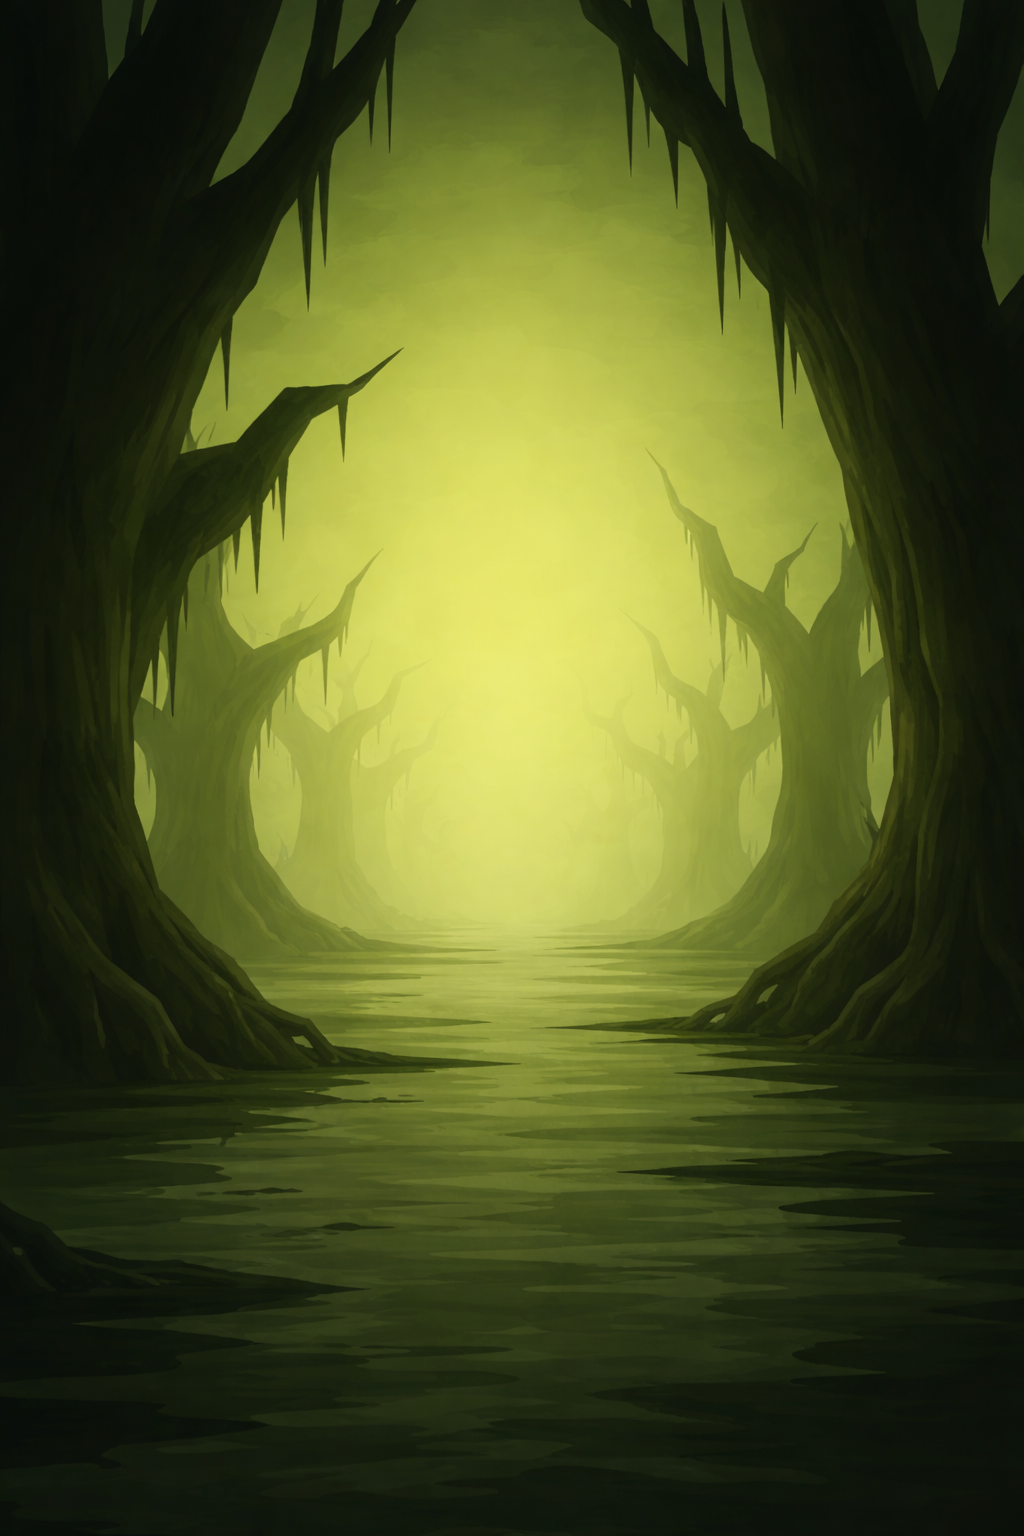
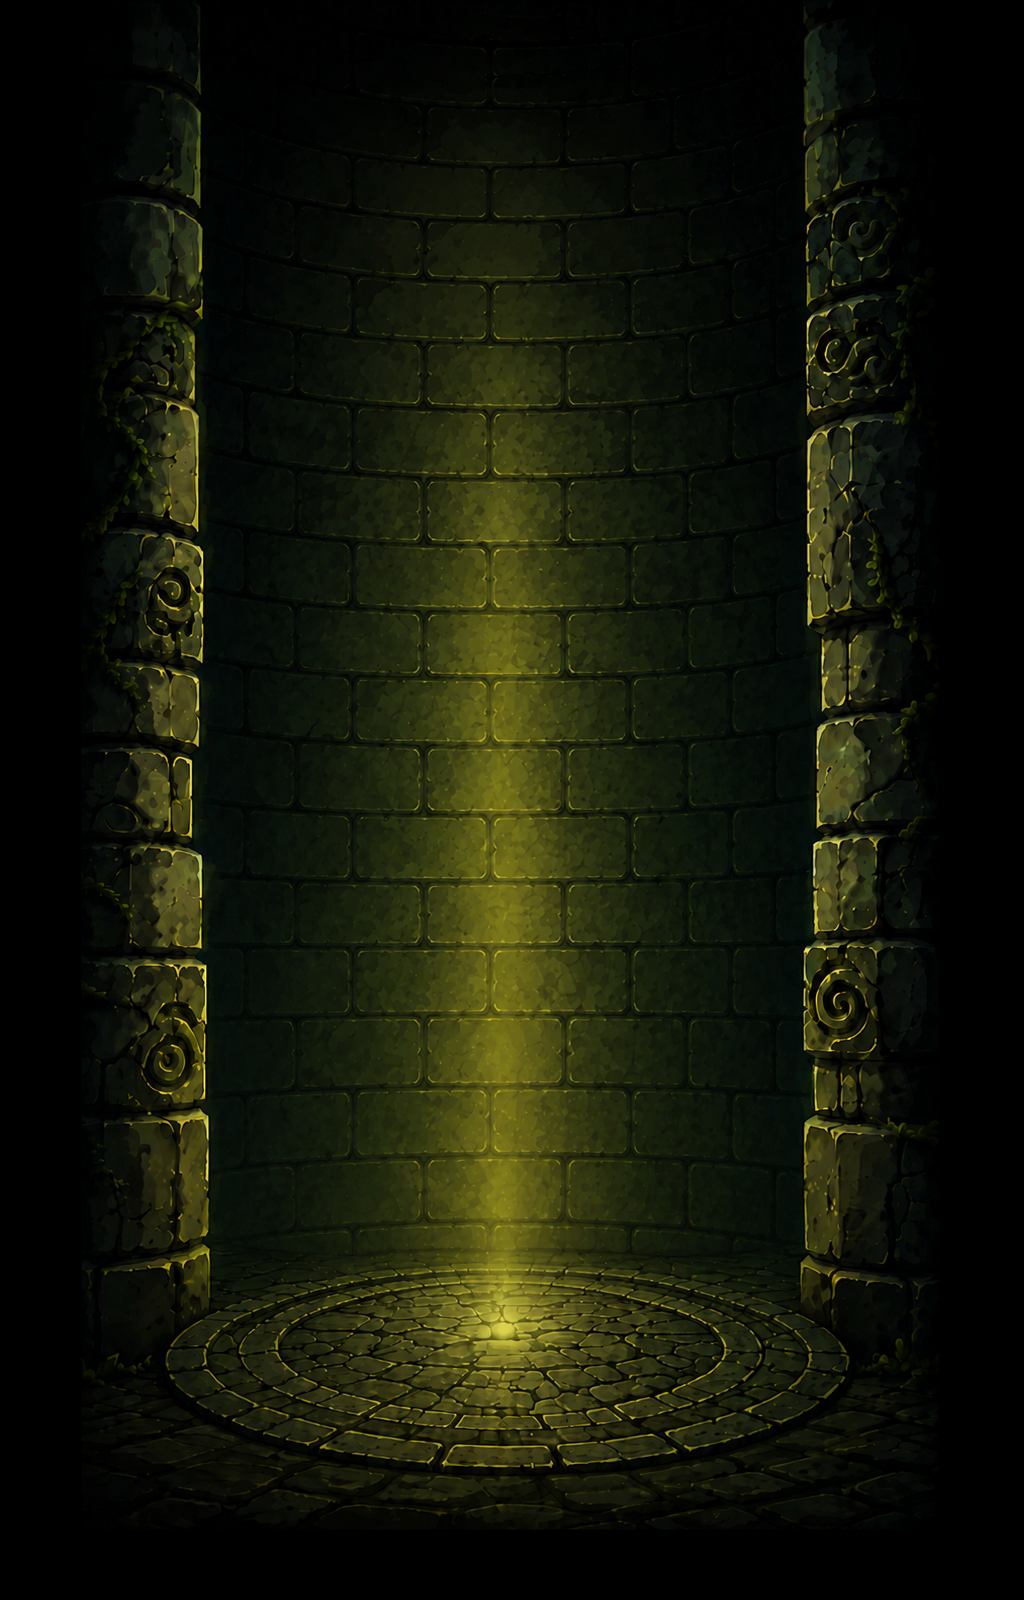
up

diff --git a/index.html b/index.html
@@ -170,18 +170,6 @@
         <div class="hud-center-panel">
           <canvas id="currentPieceCanvas" width="110" height="110"></canvas>
         </div>
-        <div class="hud-bottom-ears">
-          <div class="hud-buf-ear">
-            <button class="buf-btn change-btn" id="changePieceBtn" aria-label="Change piece" title="Change piece">
-              <span class="buf-btn-icon">↻</span><span class="buf-btn-charges" id="changeChargesDisplay">3</span>
-            </button>
-          </div>
-          <div class="hud-buf-ear">
-            <button class="buf-btn shuffle-btn" id="shuffleColorsBtn" aria-label="Shuffle colors" title="Shuffle colors">
-              <span class="buf-btn-icon">⇄</span><span class="buf-btn-charges" id="shuffleChargesDisplay">3</span>
-            </button>
-          </div>
-        </div>
       </div>
       <div class="hud-panel hud-ear hud-ear-right">
         <div class="ear-content ear-score">
@@ -192,6 +180,17 @@
         </div>
       </div>
     </div>
+  </div>
+  <!-- Buffer action buttons — sides of screen, above magic row -->
+  <div class="buf-side-wrap buf-side-left">
+    <button class="buf-btn change-btn" id="changePieceBtn" aria-label="Change piece" title="Change piece">
+      <span class="buf-btn-charges" id="changeChargesDisplay">3</span>
+    </button>
+  </div>
+  <div class="buf-side-wrap buf-side-right">
+    <button class="buf-btn shuffle-btn" id="shuffleColorsBtn" aria-label="Shuffle colors" title="Shuffle colors">
+      <span class="buf-btn-charges" id="shuffleChargesDisplay">3</span>
+    </button>
   </div>
   <!-- Pause button (replaces settings button during game) -->
   <button class="pause-btn hidden" id="pauseBtn" aria-label="Pause"></button>
@@ -453,9 +452,9 @@
       </div>
 
       <div class="tab-content active" id="tab-controls">
-        <div class="settings-row">
+        <div class="settings-row" style="display:none">
           <span class="settings-label">Show control buttons</span>
-          <div class="toggle-switch active" id="showControlsToggle"></div>
+          <div class="toggle-switch" id="showControlsToggle"></div>
         </div>
         <div class="settings-row">
           <span class="settings-label">Single tap to rotate block</span>